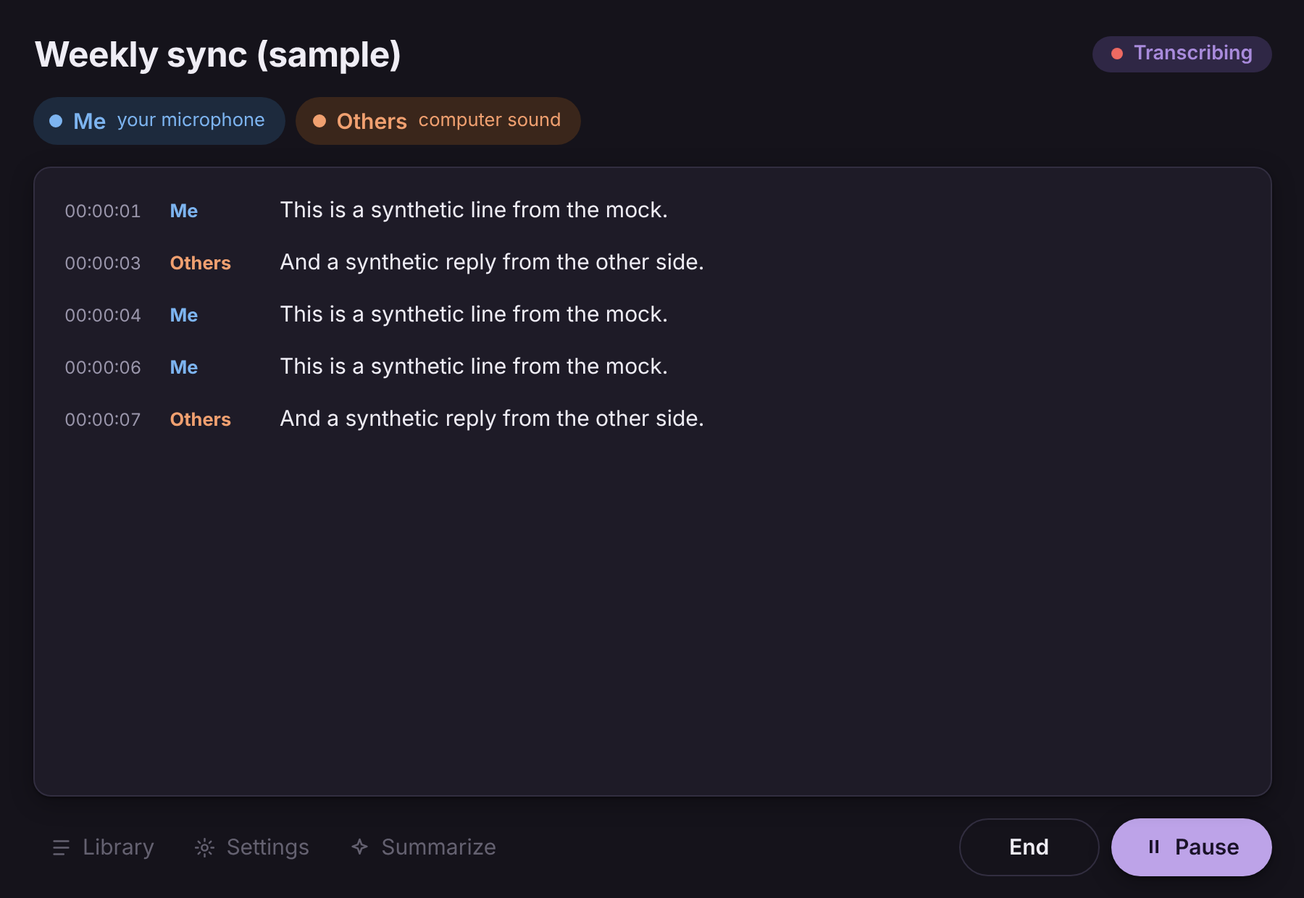
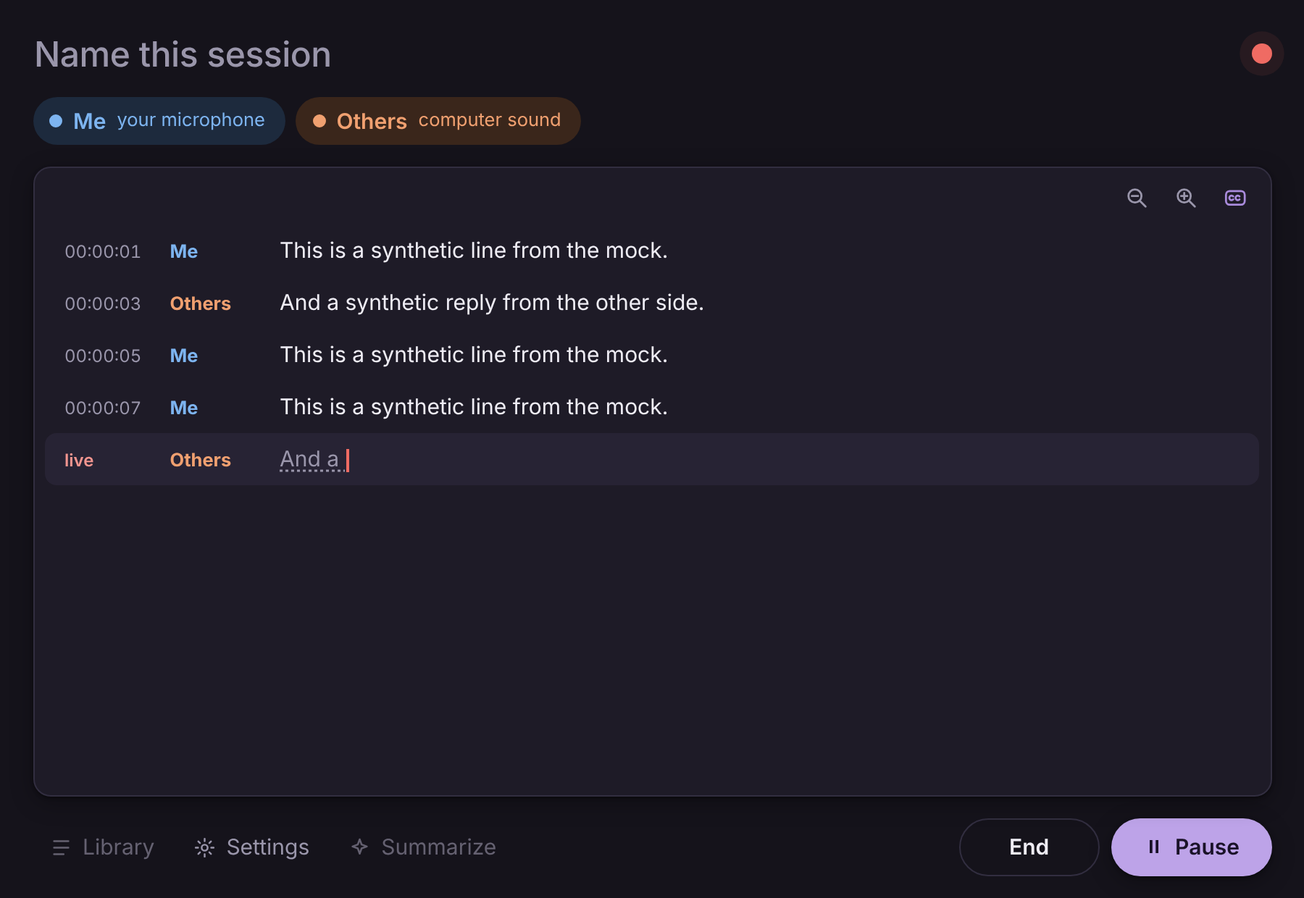
docs: refresh screenshots and bring docs in line with main
New light and dark screenshots for every UI state, generated by scripts/screenshots.mjs.
README, user guide, install, architecture, admin guide and changelog now cover the redesign,
overlay and captions, live line, tray, model download in parts and native Linux.

Claude-Session: https://claude.ai/code/session_01RQJMZpphSUuekU8vSfmFVZ

diff --git a/docs/user-guide.md b/docs/user-guide.md
@@ -1,45 +1,104 @@
 # SprkNotes user guide
 
 ## Start a session
-1. Open SprkNotes. The status pill says **Ready**.
+1. Open SprkNotes. The light in the corner is **green** (ready).
 2. Optionally type a session name. If you leave it blank, SprkNotes names the file from your calendar, the call, or the audio playing, and falls back to `Transcript`.
-3. Press **Start**. The pill says **Transcribing**.
+3. Press **Start**. The light turns **red** while it is transcribing.
 
-![Ready](screenshots/main-ready.png)
+![Ready](screenshots/main-ready-light.png)
 
-The same window running on Windows 11 (empty state, no transcript data):
+The light replaces a text status: green is ready, red is transcribing, yellow is paused.
 
-![Windows](screenshots/windows-main.png)
+### First run: get the model
+SprkNotes needs a transcription model before it can start. If none is installed, the empty window offers **Download model** and Start stays off until it is ready.
+
+![First run, no model yet](screenshots/first-run-model-light.png)
 
 ## While transcribing
-- **Me (mic)** and **Others (system)** toggles turn each source on or off.
+- **Me (your microphone)** and **Others (computer sound)** switches turn each source on or off.
 - **Pause** stops capture and writes a pause line. **Resume** continues. Timestamps keep counting, so the gap is visible.
 - **End** finishes the file.
+- The magnifier buttons change the text size. The **CC** button turns the live line on or off in this window.
 
 ![Transcribing](screenshots/main-transcribing-light.png)
-![Paused](screenshots/main-paused.png)
+![Paused](screenshots/main-paused-light.png)
 
-Dark mode follows Windows:
+### The live line
+The last row of the transcript, marked **live**, shows what is being said right now, word by word. Words the engine is sure of look solid; newer words are lighter and can change as more speech arrives. When the speaker finishes, the live line settles into a normal transcript line. The live line is a preview: it is never saved or logged, and the saved transcript comes only from finished sentences. By default it shows Others only (see [Settings](#settings)).
+
+### Dark mode
+Dark mode follows Windows or your desktop, or the choice in Settings.
 
 ![Dark](screenshots/main-transcribing-dark.png)
 
 ### Scrolling
 The live pane follows new lines while you are near the bottom. Scroll up to read earlier text: it stops moving, and a **Return to live** pill counts new lines. Click it or press **End** to jump back.
 
-![Return to live](screenshots/main-return-to-live.png)
+![Return to live](screenshots/main-return-to-live-light.png)
+
+## The overlay
+Minimize the window while a session is running (transcribing or paused) and a small overlay appears. It stays on top, and goes away when the main window returns. Without a session, nothing appears.
+
+![Overlay](screenshots/overlay-hover-dark.png)
+
+- **Drag** the dotted handle to move it. SprkNotes remembers where you left it on each screen.
+- It always shows the light, the elapsed time and the captions button. Hover it (or tab to it) to reveal **Start or Pause or Resume**, **Stop** and **Open SprkNotes**.
+- The overlay is dark by default. Choose Light in Settings to make it light.
+
+### Live captions
+Press the captions button to open a caption bar. It shows the newest lines with the line being spoken at the bottom. Others only by default; Settings can add Me.
+
+![Captions](screenshots/overlay-captions-dark.png)
+
+- Hover to show the text size buttons (magnifiers) and drag the corner handle (or use the arrow keys, Shift for fine steps) to resize. Size and text size are remembered.
+- In the lower half of the screen the caption bar opens **above** the overlay so it is never off screen.
+
+![Captions above the overlay](screenshots/overlay-captions-flipped-dark.png)
+![Large text, Others and Me](screenshots/overlay-captions-both-dark.png)
+
+Captions are never saved, never logged and do not change the transcript. If the PC cannot keep up, captions switch themselves off for the session and transcribing carries on.
+
+## The tray icon
+The tray (notification area) icon mirrors the state: ready, transcribing or paused. Click it to bring the window back. Its menu has **Start**, **Pause**, **Resume**, **End**, **Open SprkNotes** and **Quit**, whichever apply.
+
+![Tray icons](screenshots/tray-icons.png)
+
+Closing the window with the X closes the window; hiding to the tray instead is planned, so for now minimize it to keep a session running with the overlay.
+
+## Settings
+Open **Settings** at the bottom of the window.
+
+![Settings](screenshots/settings-ready-light.png)
+
+- **Transcription model.** Shows whether the model is installed. **Download model** fetches the current Parakeet model, and **Check for updates** looks for a newer one (SprkNotes also checks quietly when it starts and tells you). Downloads are in parts, checked before use, and blocked while a session is running. Your organization can turn downloads off or point them at an internal mirror, which shows in this panel.
+
+  ![Downloading](screenshots/settings-model-downloading-light.png)
+  ![Update available](screenshots/settings-model-update-light.png)
+  ![Managed by your organization](screenshots/settings-model-managed-light.png)
+- **Appearance.** System, Light or Dark.
+- **Live captions.** Turn captions on the overlay on or off, turn the live line in the main window on or off, and choose **Others only** (default, quickest) or **Others and Me**.
+
+![All settings](screenshots/settings-full-light.png)
 
 ## Your files
-Transcripts are Markdown files in `Documents\SprkNotes\Transcripts`, named `YYYY-MM-DD HHmm <Title>.md`. Each line is `- \`HH:MM:SS\` **Speaker:** text`. Lines starting with `>` are events (pauses, call changes, audio sources).
+Transcripts are Markdown files in `Documents\SprkNotes\Transcripts` (Windows), named `YYYY-MM-DD HHmm <Title>.md`. Each line is `- \`HH:MM:SS\` **Speaker:** text`. Lines starting with `>` are events (pauses, call changes, audio sources).
 
 If the app or PC stops unexpectedly, the file already holds everything that was committed. On the next start SprkNotes offers to mark it as interrupted.
 
-Export from the library to `.txt`, `.json` or `.docx`.
+Export to `.txt`, `.json` or `.docx`.
 
 ## Who is "Others"?
-Everyone you hear through the speakers. On a confirmed 1:1 Teams call the other person is named. On group calls, or when nobody can be identified, it stays `Others`. Speech from a video or other app playing sound is shown as an audio source event; it may not be a person in the meeting.
+Everyone you hear through the speakers. On a confirmed 1:1 Teams call the other person is named. On group calls, or when nobody can be identified, it stays `Others`. Speech from a video or other app playing sound is shown as an audio source event; it may not be a person in the meeting. Live captions and the live line always say `Others`.
 
 ## Summarize with Claude or Copilot
-After a session, **Summarize** opens Claude (file attached) or copies the prompt for Microsoft 365 Copilot and highlights the file. SprkNotes sends nothing: you review and send inside that app.
+After a session, **Summarize** opens Claude (file attached) or copies the prompt for Microsoft 365 Copilot and highlights the file. SprkNotes sends nothing: you review and send inside that app. (The Library and Summarize buttons in the window are shown but switched off until they arrive in the UI.)
+
+## On Linux
+Same app and windows, with these differences:
+- **Others** is the default output's monitor source, read through PipeWire or PulseAudio (`parec` must be installed).
+- The overlay runs through XWayland on Wayland desktops so it can be moved and stay on top. Set `SPRKNOTES_WAYLAND=1` to opt out.
+- The tray icon needs a tray host (libayatana-appindicator, or KDE's own). Without one the app still works; there is just no tray icon.
+- Transcripts go under your Documents folder and models under `$XDG_DATA_HOME/SprkNotes` (or `~/.local/share`).
 
 ## Privacy
-Audio never touches the disk and nothing is sent anywhere by SprkNotes. Transcripts contain what was said; treat them like any other sensitive document.
+Audio never touches the disk and nothing is sent anywhere by SprkNotes, apart from downloading transcription models when you ask (or the quiet check for a newer one at launch). Transcripts contain what was said; treat them like any other sensitive document.

diff --git a/README.md b/README.md
@@ -1,29 +1,42 @@
 # SprkNotes
 
-On-device Windows app that **transcribes your microphone and the system audio together, live**, into crash-safe Markdown files. Audio is processed in memory and never written to disk. Nothing leaves the machine. Built for a HIPAA-regulated company.
+On-device app for Windows (x64 and ARM64), with a native Linux build, that **transcribes your microphone and the system audio together, live**, into crash-safe Markdown files. Audio is processed in memory and never written to disk. Nothing leaves the machine. Built for a HIPAA-regulated company.
 
-![Main window while transcribing](docs/screenshots/main-transcribing-light.png)
+![Main window while transcribing, with the live line at the end](docs/screenshots/main-transcribing-light.png)
 
-*Screenshots in this repo use synthetic text only.*
+*Screenshots in this repo use synthetic text only. They come from the UI running against its built-in mock (`scripts/screenshots.mjs`), in light and dark.*
+
+<table>
+<tr>
+<td><img src="docs/screenshots/main-transcribing-dark.png" alt="Main window, dark"></td>
+<td><img src="docs/screenshots/settings-full-light.png" alt="Settings"></td>
+</tr>
+</table>
+
+![Overlay with live captions](docs/screenshots/overlay-captions-dark.png)
+
+More in the [user guide](docs/user-guide.md).
 
 ## What it does
 - **Me and Others.** Your mic is labeled `Me`. Everyone you hear through the speakers is `Others`, or a name on a confirmed 1:1 call. When unsure, it says `Others` and never guesses.
 - **Crash-safe.** Every committed line is appended to the file and flushed immediately. Kill the app and the transcript is intact.
+- **Live captions** on a small floating overlay, word by word as people speak: Others by default, Me optional. Captions are never saved or logged and do not change the transcript. The newest words also grow as a live line at the end of the main window.
+- **Overlay and tray.** Minimize the window during a session and a small overlay shows the light, the clock, Pause, Stop and captions. The tray icon mirrors the state and has the same actions.
 - **Pause and resume** keep timestamps honest: gaps stay visible.
 - **Exports** to Markdown (native), `.txt`, `.json` and `.docx`.
 - **Optional calendar names** from classic Outlook (local only), and an **AI handoff** that opens Claude or Microsoft 365 Copilot with a prompt; you press send there.
-- **Models are data.** The speech model is a signed `.sprkmodel` pack chosen by a resolver, never hard-coded. Default: Parakeet TDT 0.6B.
+- **Models are data.** The speech model is a `.sprkmodel` pack chosen by a resolver, never hard-coded. Default: Parakeet TDT 0.6B v2 (NVIDIA, CC BY 4.0). Press **Download model** in Settings to fetch it (and check for a newer one at launch), or use the bundled-model build offline.
 
 ## Privacy guarantees
 No audio on disk. No network except downloading transcription model packs, which admins can turn off (the only local interfaces are Outlook COM, the Teams local API on `localhost`, and launching Claude/Copilot). No telemetry, app update checks or crash upload. Logs never contain transcript text, subjects or names. Details: [SPEC.md](SPEC.md) section 12 and [CLAUDE.md](CLAUDE.md) hard rules.
 
 ## Status
-Pre-release (0.0.1). Portable cores are built and tested on Linux: transcript format, writer and recovery, exports, commit buffer and dedupe, session orchestration, model packs and signing, calendar selection, handoff plans, context tracking. The main window UI exists. Windows-only code (WASAPI capture, AEC, Outlook COM, Teams API, Tauri wiring) and packaging are in progress. See [CHANGELOG.md](CHANGELOG.md) and the milestone table in SPEC.md section 14.
+Pre-release (0.0.1, pilot builds are on the Releases page). Built so far: transcript format, writer and recovery, exports, commit buffer and dedupe, session orchestration, model packs, signing and download, calendar selection, handoff plans, call context, admin policy, live captions (ADR-006, ADR-007), the redesigned main window, Settings, overlay and tray, and installers (portable zip, MSI, MSIX). Windows capture (WASAPI) and the desktop shell run on x64; the Snapdragon laptop checks are pending ([manual checks](docs/manual-checks.md)). Linux runs natively (PipeWire or PulseAudio system audio, model download, tray, overlay) but has no packaged release yet. Not finished: library window, Summarize in the UI, hide-to-tray on Close, Teams local API. See [CHANGELOG.md](CHANGELOG.md) and the milestone table in SPEC.md section 14.
 
 ## Docs
 | Doc | For |
 |---|---|
-| [Install](docs/install.md) | Installing on one PC: portable zip, MSI, MSIX, models, uninstall |
+| [Install](docs/install.md) | Installing on one PC: portable zip, MSI, MSIX, Linux, models, uninstall |
 | [Deployment](docs/deployment.md) | Intune, GPO, SCCM, RMM as SYSTEM, registry policy |
 | [User guide](docs/user-guide.md) | Using the app |
 | [Admin guide](docs/admin-guide.md) | Deploying, policy keys, model runbook |
@@ -32,7 +45,7 @@ Pre-release (0.0.1). Portable cores are built and tested on Linux: transcript fo
 | [Manual checks](docs/manual-checks.md) | Things that need a person or a laptop |
 | [ADRs](docs/adr/) | Decisions |
 | [SPEC.md](SPEC.md) | Source of truth |
-| [Third-party notices](THIRD_PARTY_NOTICES.md) | Licenses |
+| [Third-party notices](THIRD_PARTY_NOTICES.md) | Licenses and the Parakeet attribution |
 
 ## Build and test (Linux dev host)
 ```bash
@@ -42,7 +55,10 @@ cargo fmt --all --check
 scripts/check-terms.sh            # terminology gate
 cd app/ui && npm ci && npm run check && npm test
 ```
-Cross-compile for Windows with `cargo xwin` (see the dev environment doc). Windows integration tests run in the VM with `scripts/winvm.sh`.
+Cross-compile for Windows with `cargo xwin` (see the dev environment doc). Windows integration tests run in the VM with `scripts/winvm.sh`. To refresh the screenshots, start the UI (`cd app/ui && npx vite --port 1420`) and run `node scripts/screenshots.mjs` (needs Playwright with Chromium).
+
+## Models and attribution
+Transcription uses *Parakeet TDT 0.6B v2 by NVIDIA, licensed under CC BY 4.0*. See [THIRD_PARTY_NOTICES.md](THIRD_PARTY_NOTICES.md).
 
 ## License
 MIT. See [LICENSE](LICENSE).

diff --git a/docs/architecture.md b/docs/architecture.md
@@ -7,28 +7,41 @@
                        Commit buffer (6 s): dedupe, fillers, merge, split
                                                          │
                       Transcript writer (append + flush .md, JSONL sidecar) ─> UI
+
+ In-progress speech ─> Captioner (re-decode last 10 s, never stored) ─> `caption` events ─> overlay + live line
 ```
+
+On Linux the same pipeline runs with `parec` (PipeWire or PulseAudio monitor) for Others and cpal for the microphone.
 
 ## Crates
 | Crate | Role | Status |
 |---|---|---|
 | `sprk-transcript` | Format, writer, recovery, parser, exporters | Done (portable) |
-| `sprk-pipeline` | Commit buffer, dedupe, rules, `Session` orchestrator | Done (portable) |
+| `sprk-pipeline` | Commit buffer, dedupe, rules, `Session` orchestrator, session host, `Captioner` (ADR-006, ADR-007) | Done (portable) |
 | `sprk-asr` | `Engine` and `Vad` traits, sherpa-onnx adapters | Done |
 | `sprk-models` | Packs, manifest, resolver, stores, import, signing | Done (portable) |
-| `sprk-context` | Audio source timing, call title rules, labeling modes | Portable core done; Windows sources pending |
-| `sprk-calendar` | Meeting selection, context section | Portable core done; Outlook COM pending |
-| `sprk-handoff` | Claude/Copilot plans, prompt template | Portable core done; launcher pending |
-| `sprk-audio` | Capture and AEC traits | Traits and fakes; WASAPI pending |
-| `sprk-config` | Settings and policy | Skeleton |
-| `app/src-tauri`, `app/ui` | Tauri shell, Svelte UI | Main window built; commands pending |
-| `tools/sprkctl` | Admin CLI | Done for models and bench |
+| `sprk-context` | Audio source timing, call title rules, labeling modes | Windows sources and call context wired; UI Automation tabs, Teams local API pending |
+| `sprk-calendar` | Meeting selection, context section, classic Outlook (COM) provider | Done; real Outlook check pending |
+| `sprk-handoff` | Claude/Copilot plans, prompt template, Windows launcher | Done; UI button pending |
+| `sprk-audio` | Capture and AEC traits, cpal backend (WASAPI mic and loopback), Linux monitor capture via `parec`, software echo canceller | Done; hardware bleed test pending |
+| `sprk-config` | Settings and admin policy (`HKLM`/`HKCU` Policies) | Done; UI lock indicators pending |
+| `app/src-tauri`, `app/ui` | Tauri shell (commands, model download, tray, overlay window) and Svelte UI (main window, Settings, overlay) | Built; Windows and native Linux |
+| `tools/sprkctl` | Admin CLI | Done for models (including `index` and split packs) and bench |
+
+## Windows and UI
+- **Main window** (`App.svelte`): session name, source switches, status light, transcript with live line, Start/Pause/End, Settings.
+- **Overlay** (`index.html#mini`, same bundle): an orb with grip, light, clock, captions and hover actions, plus a caption drawer that flips above the orb in the lower half of the screen. The Rust shell sizes the window to its content and owns position, flip and tray (`shell.rs`).
+- **Events** from the session host to the UI: `transcript-line`, `session-status`, `caption` (transient), `model-download`, `model-update`. The UI has a browser mock for each, which is how the documentation screenshots are produced (`scripts/screenshots.mjs`).
+- **Model download** (ADR-005): portable index and pack logic in `sprk_models::remote`, with a WinHTTP client on Windows and a `ureq` client elsewhere.
 
 ## Platform seam
-Every Windows API sits behind a trait with a `cfg(windows)` implementation and a fake, so all logic is tested on Linux. Windows-only code is verified in the VM.
+Every Windows API sits behind a trait with a `cfg(windows)` implementation and a fake, so all logic is tested on Linux. Windows-only code is verified in the VM. The app itself also builds and runs natively on Linux.
 
 ## Extension points
 New engines, VADs, exporters, calendar providers, handoff targets and filters are adapters behind traits (SPEC 17), each with an ADR. The pipeline never branches on a specific model or vendor.
 
 ## Hard rules
 See [CLAUDE.md](../CLAUDE.md): no audio on disk, no network, terminology ("transcribing"), no PHI in logs, crash safety, models are data, never guess a speaker.
+
+## Decisions
+See [docs/adr](adr/): stack (001), dev environment (002), default model (003), echo canceller (004), model download (005), live captions (006) and streaming caption hypotheses (007).

diff --git a/docs/install.md b/docs/install.md
@@ -8,13 +8,14 @@ Pick the shortest path that fits. All paths install the same build and never tou
 | [MSI per-user](#b-full-install-msi) | No | No | One person's PC |
 | [MSI per-machine](#b-full-install-msi) | Yes | No | Shared PCs, IT-managed installs |
 | [MSIX](#c-full-install-msix) | No (after trust is set up) | Yes, trusted by the PC | Intune and managed fleets |
+| [Linux](#d-linux-native-build) | No | No | CachyOS, Arch and other desktops; built from source |
 
 For fleets see [deployment.md](deployment.md).
 
 ## Before you start
 - Windows 10 or 11, x64 or ARM64. The portable zip and the installers pick the right build automatically.
 - The Microsoft Edge WebView2 runtime. It ships with Windows 11 and current Windows 10.
-- A transcription model pack (see [Models](#models)). Until one is available the app cannot transcribe.
+- A transcription model pack (see [Models](#models)), or the **Download model** button in Settings. Until one is available the app cannot transcribe.
 - Unsigned builds: Windows shows a SmartScreen warning the first time. See [Unsigned builds](#unsigned-builds).
 
 ## A. Standalone (portable zip)
@@ -65,10 +66,24 @@ Import-Certificate -FilePath .\SprkNotes-signing.cer -CertStoreLocation Cert:\Lo
 ```
 Then double-click the `.msixbundle`, or `Add-AppxPackage .\SprkNotes_<version>.msixbundle`. Remove with `Get-AppxPackage *SprkNotes* | Remove-AppxPackage`. Builds signed with a certificate your PCs already trust need no import. Remove a test certificate afterwards if it was only for testing.
 
+## D. Linux (native build)
+There is no packaged Linux release yet; build it from the repository. You need Rust, Node and the Tauri Linux prerequisites (WebKitGTK), plus these at run time:
+- `parec` (from `pipewire-pulse` or `pulseaudio-utils`): it reads the default output's monitor, which is how **Others** is captured. Without it only your microphone is transcribed.
+- A tray host for the tray icon (`libayatana-appindicator`, or KDE's built-in tray). The app works without one, just with no tray icon.
+- On Wayland the app starts through XWayland so the overlay can be moved and stay on top. Set `SPRKNOTES_WAYLAND=1` to opt out (the overlay may then not hold its position).
+
+Build with the speech engine (fetch the native libraries first, see [dev-environment.md](dev-environment.md)):
+```bash
+scripts/fetch-sherpa.sh
+(cd app/ui && npm ci)
+SHERPA_ONNX_LIB_DIR=$(scripts/fetch-sherpa.sh --print linux-x64) cargo tauri build --features engine   # in app/src-tauri
+```
+Open Settings and press **Download model**, or place a pack under `${XDG_DATA_HOME:-~/.local/share}/SprkNotes/models`. Transcripts go to `~/Documents/SprkNotes/Transcripts`.
+
 ## Models
 SprkNotes loads a transcription model from a `.sprkmodel` pack. Packs are separate from the app and have their own version.
 
-**Easiest: the Download model button.** In the light portable zip or MSI, open Settings and press **Download model**. The app fetches the current Parakeet model and the voice activity model, checks them, and uses them from the next session. At launch it quietly checks whether a newer model exists and tells you. Downloads need https access to the model host (or your organization's mirror) and are blocked while a session is running. Admins can turn this off (`ModelDownload=0`); then use a bundled build or a pack file as below.
+**Easiest: the Download model button.** In the light portable zip, MSI or Linux build, open Settings and press **Download model**. The app fetches the current Parakeet model and the voice activity model (large packs arrive in parts of about 80 MB that are joined and checked against the pack's checksum), imports them as usual, and uses them from the next session. It works the same on Linux. At launch it quietly checks whether a newer model exists and tells you. Downloads need https access to the model host (or your organization's mirror) and are blocked while a session is running. Admins can turn this off (`ModelDownload=0`); then use a bundled build or a pack file as below.
 
 **Offline: bundled build or pack file.** The `with-model` downloads already contain the model. Otherwise install a pack by hand:
 ```powershell

diff --git a/CHANGELOG.md b/CHANGELOG.md
@@ -1,6 +1,10 @@
 # Changelog
 
 ## 0.0.1 (unreleased)
+- Docs refresh: user guide, README, install, architecture and admin guide brought in line with main (redesigned window, Settings, overlay and captions, live line, tray, model download in parts, native Linux). New screenshots in light and dark for every state (main window, Settings and model states, overlay, caption drawer including flipped and large text, tray icons), generated by `scripts/screenshots.mjs` from the UI's browser mock so they stay synthetic. Screenshots will need re-running after the rebrand lands. Known gap documented: Close does not yet hide to the tray.
+- Live line in the transcript window (PR 45): the newest words of the speech in progress appear word by word as a final row, Others by default (Me follows the captions setting); a Settings switch and text size buttons. Never saved.
+- Native Linux support (PR 39): model download without WinHTTP, system audio from the default output's monitor via `parec` (PipeWire or PulseAudio), drag and drop off, XWayland by default for the overlay (`SPRKNOTES_WAYLAND=1` opts out), the tray is optional when no tray host exists.
+- UI redesign: status light instead of a status word, plain-language labels, Settings with transcription model, appearance and captions sections, first-run model download card, tray icon with state and menu, overlay (concept C: orb plus caption bar).
 - Overlay caption drawer polish: slightly translucent (86%) so it stays readable over any window; resizable with a hover-only corner handle (drag or arrow keys); magnifier minus and plus buttons for text size; drawer size and text size are remembered across runs (and the pill position as before). When the pill rests in the lower half of the screen the drawer flips above it, the pill stays put, and the handle moves to the upper-right corner. The hover-only buttons now hide about 0.9 s after the pointer leaves or the overlay loses focus (a mouse click used to leave a button focused and pin them open).
 - Live captions, engine side (ADR-006): the session re-decodes the speech in progress (last 10 s, about every 0.7 s, Others by default, Me optional) and the app emits a transient `caption` event. Nothing is written or logged. Backs off when decoding is slow and switches itself off if it cannot keep up. The overlay's `set_captions` flags feed `Events::captions_wanted`.
 - Fix: Download model no longer makes the voice activity pack the active model (it displaced Parakeet to `previous`); only transcription packs are activated.

diff --git a/docs/admin-guide.md b/docs/admin-guide.md
@@ -11,7 +11,7 @@
 | `<id>@<ver>.sprkmodel` | Transcription model packs, versioned separately |
 | `SHA256SUMS.txt`, `release-manifest.json` | Hashes and versions |
 
-Uninstall never deletes transcripts. Install steps for one PC are in [install.md](install.md); fleet deployment (Intune, GPO, SCCM, RMM as SYSTEM) is in [deployment.md](deployment.md).
+Linux is a from-source build with no packaged artifact yet (see [install.md](install.md#d-linux-native-build)); admin policy keys are Windows only. Uninstall never deletes transcripts. Install steps for one PC are in [install.md](install.md); fleet deployment (Intune, GPO, SCCM, RMM as SYSTEM) is in [deployment.md](deployment.md).
 
 ## Policy (registry)
 `HKLM\Software\Policies\SprkNotes` wins over `HKCU\Software\Policies\SprkNotes`, which wins over user settings. A policy locks the matching setting.
@@ -55,6 +55,9 @@ Packs are signed with Ed25519 (OpenSSH SSHSIG, namespace `sprknotes-model`) thro
 
 ## Privacy and network
 SprkNotes makes no outbound connections except model downloads (ADR-005): at launch it fetches a small model index to see whether a newer model exists, and downloads a pack only when the user presses "Download model". Nothing about the user or any transcript is sent. Set `ModelDownload=0` to turn all of it off, `ModelUpdateCheck=0` to stop only the launch check, or `ModelIndexUrl` to point at an internal mirror. Otherwise expect only `localhost` traffic (Teams local API, if enabled). `sprkctl model sync` (admin-run) reads an internal file share. No telemetry or crash upload, and no app update checks. Logs hold IDs and counts only; context data (titles, names) goes only into transcript files.
+
+## Live captions
+Captions and the live line are shown from in-memory text only: never written to disk, never logged, never part of the transcript (ADR-006, ADR-007). They are a per-user setting in the app; there is no policy key. Others-only is the default and the cheapest on CPU. If decoding cannot keep up, the engine switches captions off for the session.
 
 ## Troubleshooting
 - **No model available:** the bundled default is read-only in the app folder; check `sprkctl model list`.
